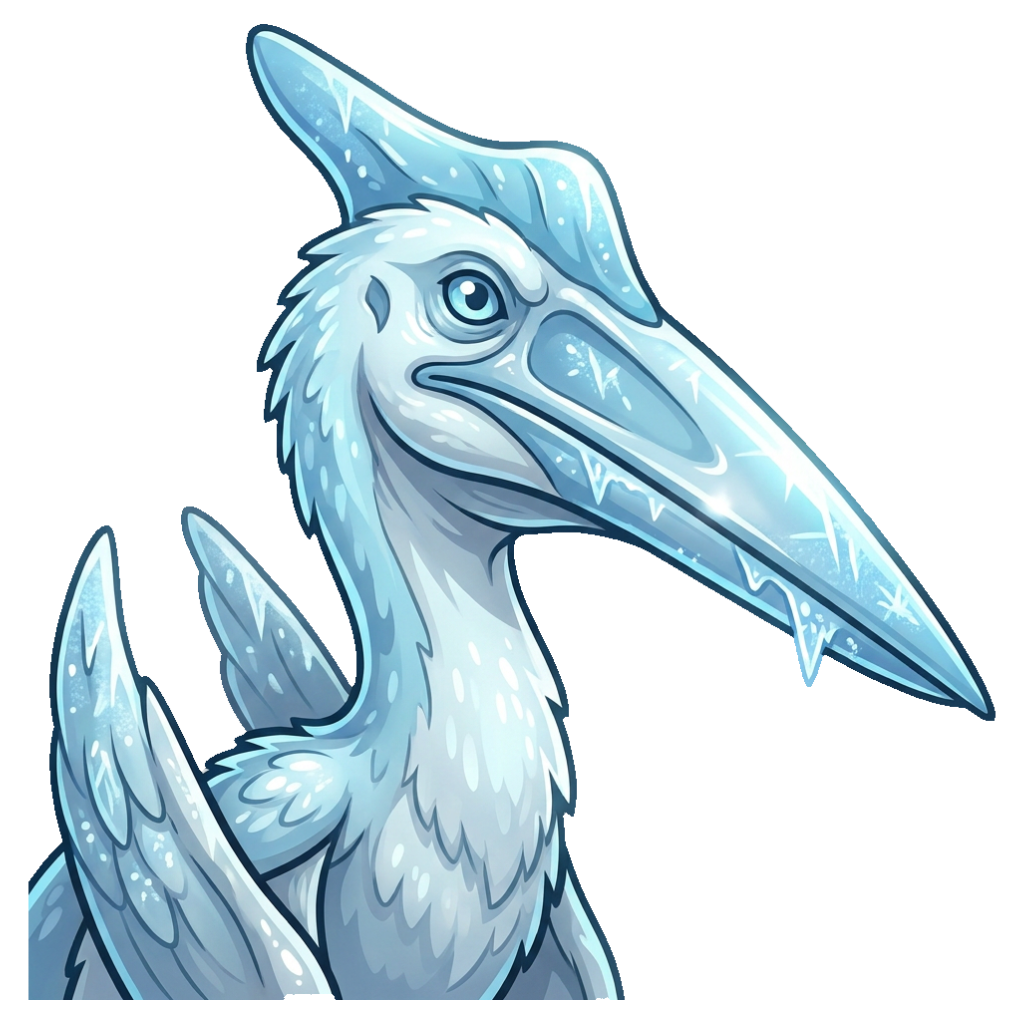
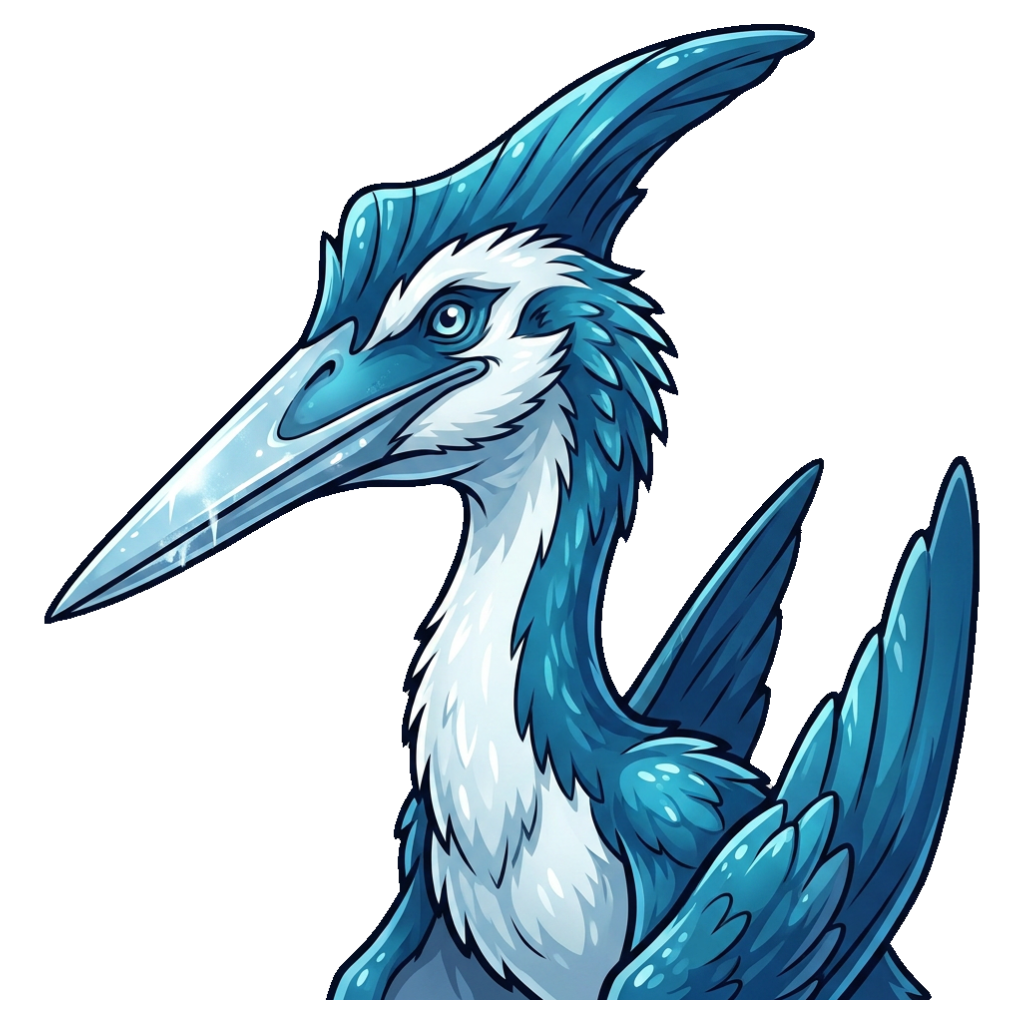
fix(art): regenerate frozen_cliffs boss portrait to match set outline weight

diff --git a/docs/assets/prompts.md b/docs/assets/prompts.md
@@ -398,7 +398,20 @@ silhouette bbox** (there is no egg axis to bias toward), 24px margin on a
   an amber-gold eye, and warm sunset-toned glossy highlights.
 - **boss-frozen_cliffs — Stormwing:** a towering cartoon Quetzalcoatlus with
   pale ice-blue and white plumage, a long crested head, frost sheen gleaming
-  on the beak surface, and one folded wing shoulder visible.
+  on the beak surface, and one folded wing shoulder visible. The first
+  generation attempt drifted off-model against the other three bosses — thin
+  light blue-grey outlines and washed-out fills instead of matching bold
+  near-black linework and saturated color — so the icy palette is not enough
+  on its own; insert this before the no-glow sentence: "Every outline on the
+  dinosaur — crest, beak, feather edges, wing, neck — must be drawn in bold,
+  thick, near-black ink, the same weight and darkness as a classic
+  comic-book cel-shaded character; do not lighten, thin, or recolor the
+  outlines to blue-grey just because the subject is icy — the linework stays
+  bold and near-black regardless of the pale color underneath, exactly like
+  the outline weight on the reference portrait. The color fills stay vibrant
+  and richly saturated, not washed out, pastel, or desaturated by the cold
+  palette — deep ice-blue and clean white, with strong glossy highlights and
+  clean cel-shaded gradients, not a flat muted look."
 - **boss-volcano_core — The Tyrant King:** a colossal cartoon Tyrannosaurus
   with jet-black obsidian-dark scales veined by glowing orange lava-crack
   markings on the scale surfaces only, an ember-orange eye, and a roaring
